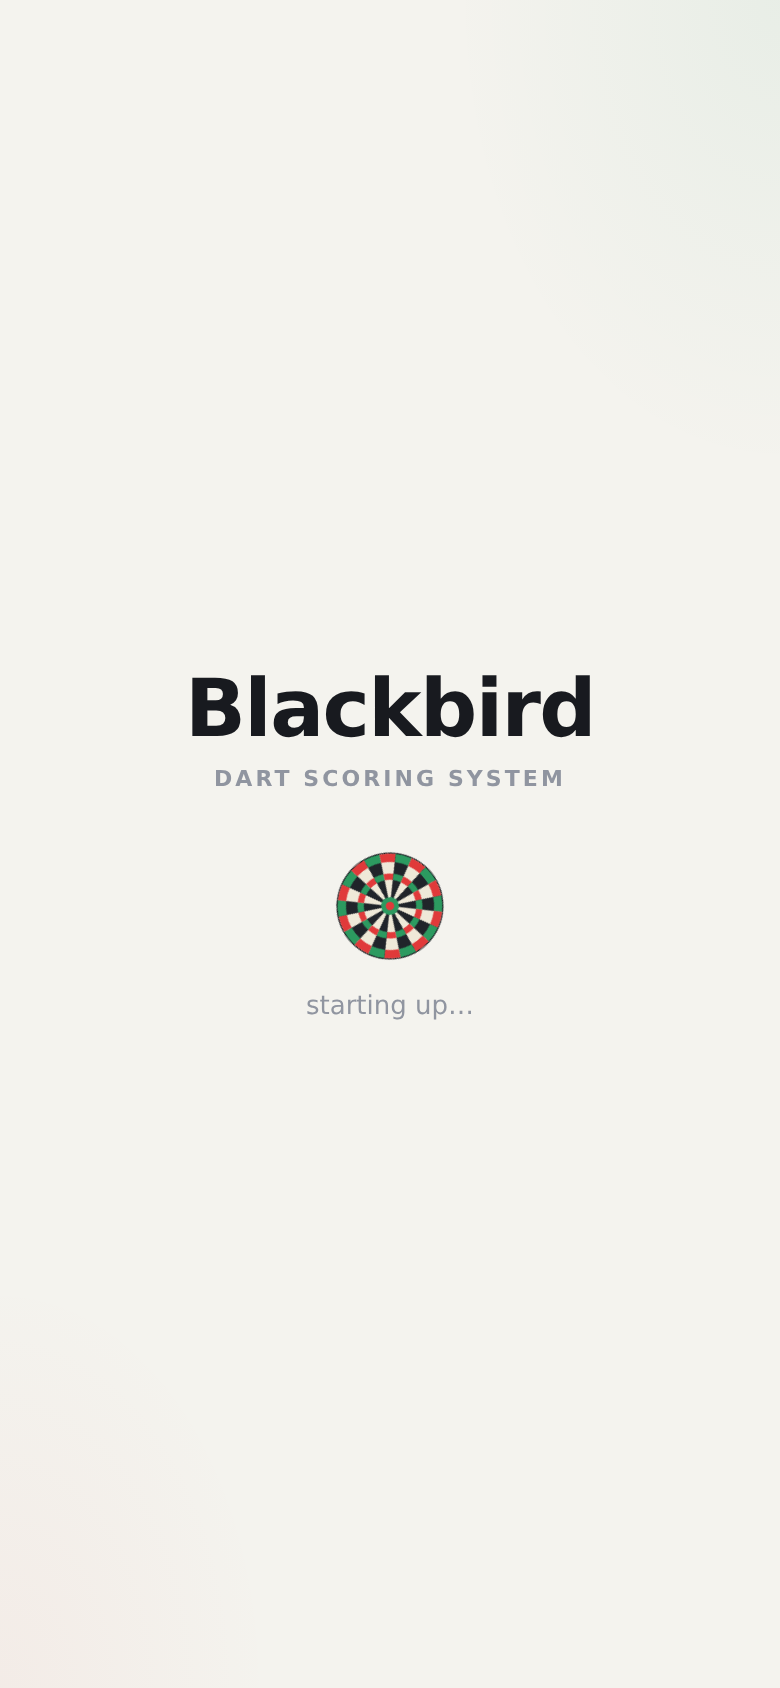
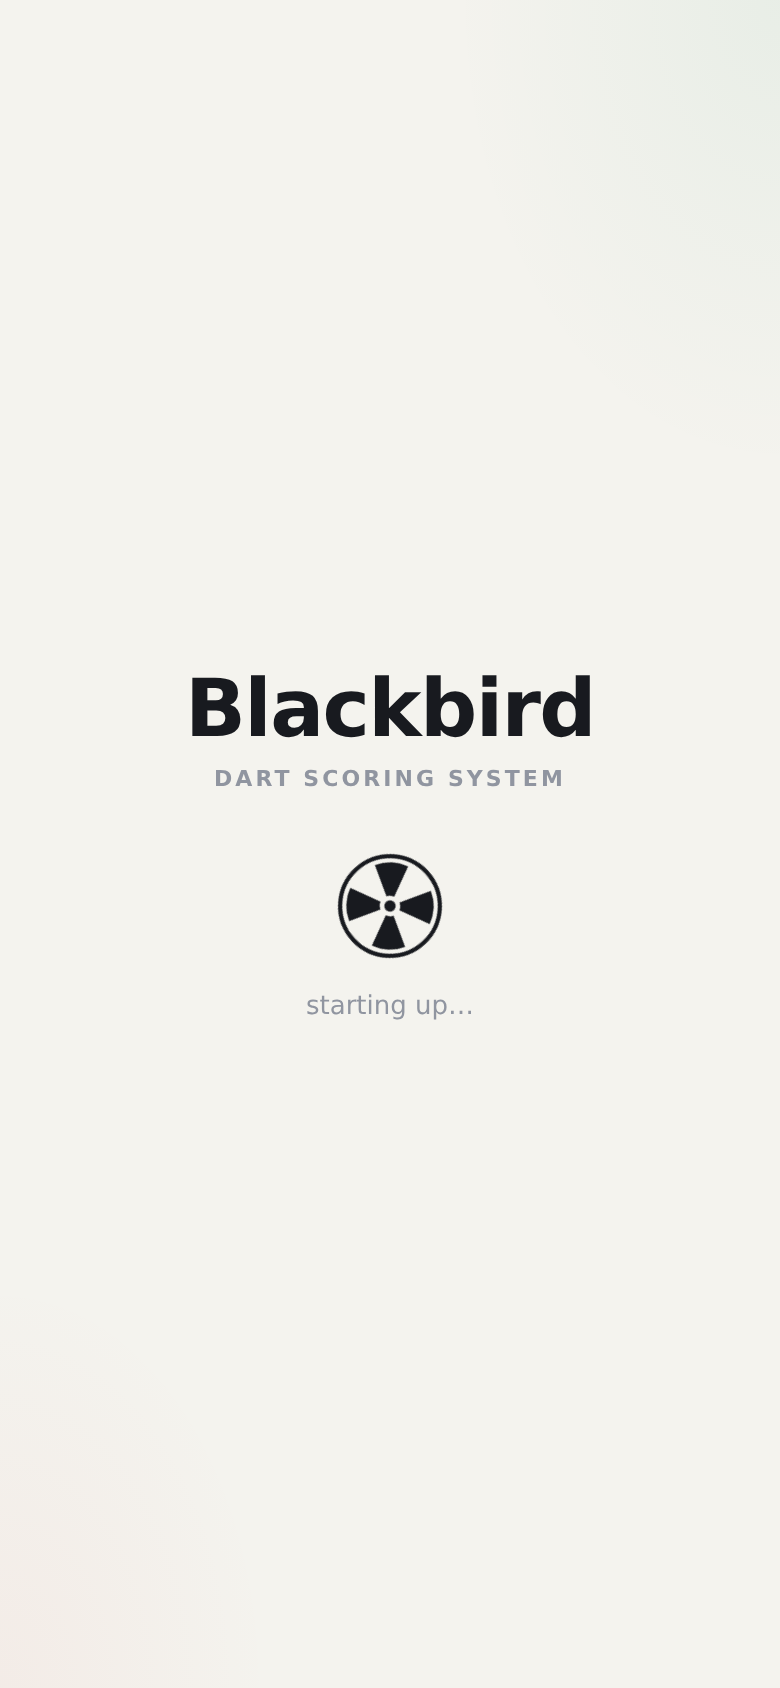
Simplify splash spinner to one-color 8-section dartboard
The spinner is now a flat 8-section board (alternating filled wedges,
outer ring, bull) drawn in a single theme color: dark ink on the light
theme, light ink on dark. README wording and splash screenshots updated.

Claude-Session: https://claude.ai/code/session_01QARoeoGxiKuoxC6n1iZQd3

Changed region(s): [[0.4308, 0.4929, 0.5846, 0.5853]]

diff --git a/components/LoadingScreen.js b/components/LoadingScreen.js
@@ -11,24 +11,21 @@ function sector(rI, rO, a0, a1) {
   return `M${x0} ${y0} A${rO} ${rO} 0 0 1 ${x1} ${y1} L${x2} ${y2} A${rI} ${rI} 0 0 0 ${x3} ${y3} Z`;
 }
 
-// flat mini dartboard: 20 alternating wedges + double/triple rings + bull
+// simple 8-section board: every other 45° wedge filled, single color
 const WEDGES = [];
-for (let i = 0; i < 20; i++) {
-  const c = -90 + i * 18;
-  const a0 = c - 9;
-  const a1 = c + 9;
-  const dark = i % 2 === 0;
-  WEDGES.push({ key: `s${i}`, d: sector(16, 100, a0, a1), fill: dark ? "#20242a" : "#efe9d8" });
-  WEDGES.push({ key: `d${i}`, d: sector(84, 100, a0, a1), fill: dark ? "#2c9a60" : "#e03a3a" });
-  WEDGES.push({ key: `t${i}`, d: sector(50, 62, a0, a1), fill: dark ? "#2c9a60" : "#e03a3a" });
+for (let i = 0; i < 8; i++) {
+  if (i % 2 === 0) continue;
+  const c = -90 + i * 45;
+  WEDGES.push(sector(20, 84, c - 22.5, c + 22.5));
 }
 
 /**
  * Splash shown on every app open: the Blackbird wordmark with a spinning
- * mini dartboard as the loading wheel. page.js keeps this up for 1–3
- * seconds per open (plus however long auth/data actually take) so
- * launching always has a moment of perceived loading. Honors
- * prefers-reduced-motion.
+ * mini dartboard as the loading wheel — a flat 8-section board drawn in a
+ * single color that follows the theme (dark ink on light, light ink on
+ * dark). page.js keeps this up for 1–3 seconds per open (plus however
+ * long auth/data actually take) so launching always has a moment of
+ * perceived loading. Honors prefers-reduced-motion.
  */
 export default function LoadingScreen({ text = "loading…" }) {
   return (
@@ -36,13 +33,12 @@ export default function LoadingScreen({ text = "loading…" }) {
       <div className="load-wrap">
         <div className="load-title">Blackbird</div>
         <div className="load-sub">dart scoring system</div>
-        <svg className="load-spinner" viewBox="-3 -3 206 206" aria-hidden="true">
-          <circle cx={100} cy={100} r={102} fill="#181a1f" />
-          {WEDGES.map((w) => (
-            <path key={w.key} d={w.d} fill={w.fill} />
+        <svg className="load-spinner" viewBox="-4 -4 208 208" aria-hidden="true">
+          <circle cx={100} cy={100} r={96} fill="none" stroke="currentColor" strokeWidth="8" />
+          {WEDGES.map((d, i) => (
+            <path key={i} d={d} fill="currentColor" />
           ))}
-          <circle cx={100} cy={100} r={17} fill="#2c9a60" />
-          <circle cx={100} cy={100} r={8} fill="#e03a3a" />
+          <circle cx={100} cy={100} r={11} fill="currentColor" />
         </svg>
         <div className="load-status" role="status">
           {text}

diff --git a/app/globals.css b/app/globals.css
@@ -584,6 +584,7 @@ label.check input {
   height: 54px;
   margin-top: 30px;
   display: block;
+  color: var(--ink);
   animation: load-fade 0.5s 0.2s ease both, load-spin 1.4s linear infinite;
 }
 @keyframes load-fade {

diff --git a/README.md b/README.md
@@ -30,8 +30,8 @@ localStorage — Postgres is the single source of truth.
 ## What it is (at a glance)
 
 - **Launch splash**: every open starts with the Blackbird wordmark and a
-  spinning mini dartboard (flat vector) as the loading wheel, held for 1–3
-  seconds, in the user's light or dark theme.
+  spinning mini dartboard as the loading wheel — a simple 8-section board
+  drawn in one color per theme — held for 1–3 seconds.
 - **Games**: X01 with optional double-out, Cricket (3 variants), Baseball
   (9 innings + extra innings on ties).
 - **Cricket MPR**: live **marks-per-round** for every player while the game is
